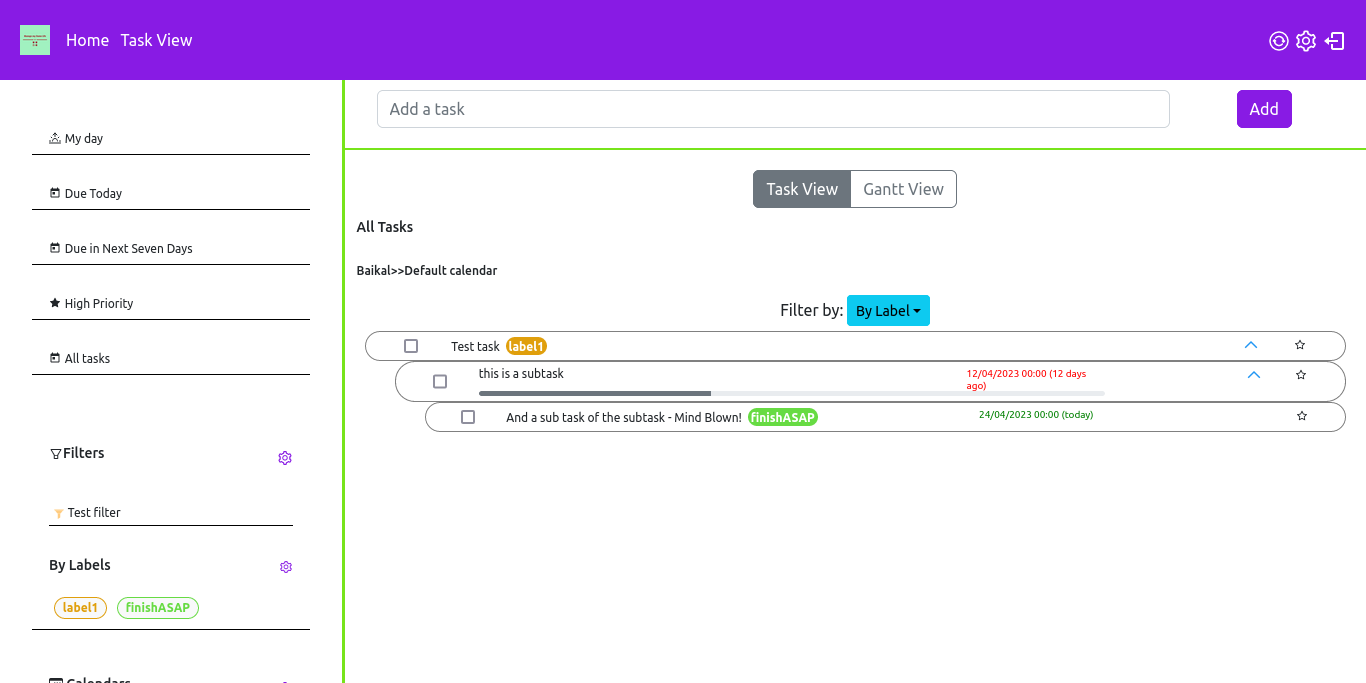
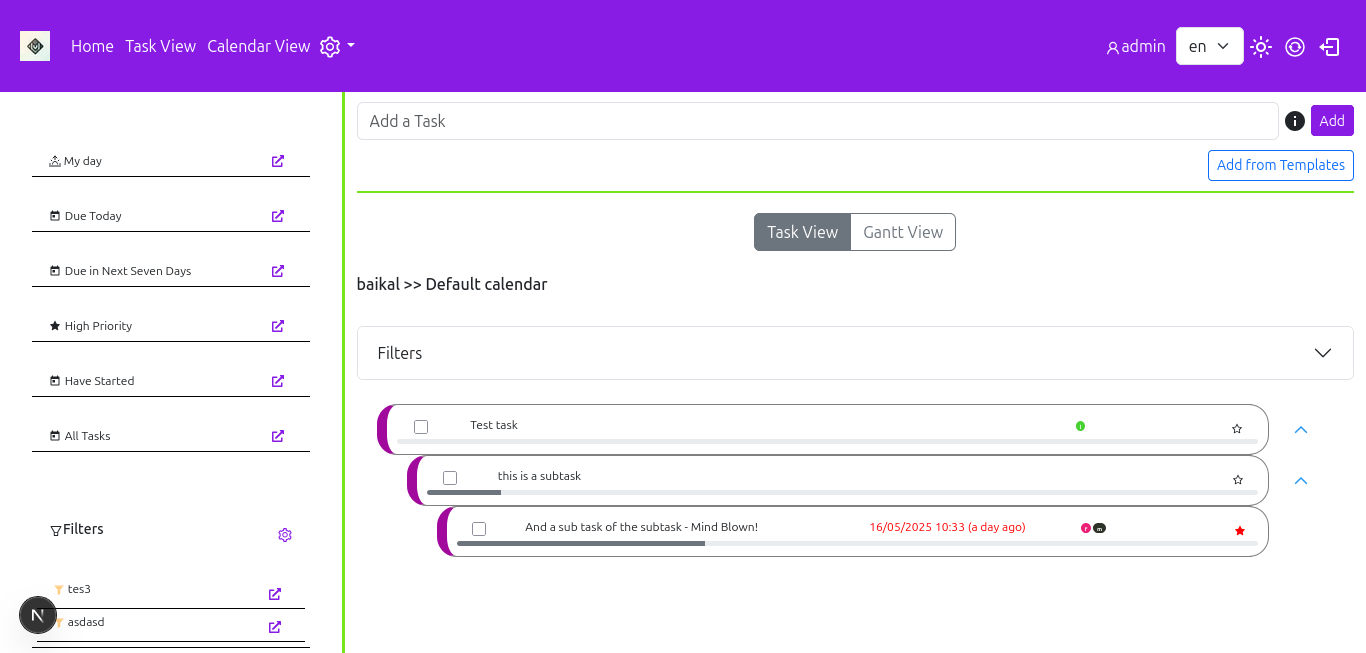
v0.6.0 migration  - Updated docs  - Minor bug fixes  - Ready for stable release, fingers crossed.

diff --git a/src/helpers/frontend/filters.js b/src/helpers/frontend/filters.js
@@ -1,7 +1,7 @@
 import moment from "moment"
 import { dueDatetoUnixStamp, ISODatetoHuman } from "./general"
 import { getAuthenticationHeadersforUser } from "./user"
-import { getAPIURL, isStringEmpty, logVar, varNotEmpty } from "../general"
+import { getAPIURL, getTodaysDayEnd_ISOString, isStringEmpty, logVar, varNotEmpty } from "../general"
 import { RRuleHelper } from "./classes/RRuleHelper"
 import { RecurrenceHelper } from "./classes/RecurrenceHelper"
 import { getErrorResponse } from "../errros"
@@ -360,10 +360,12 @@ export function applyEventFilter(event, filter)
                 dueDate= recurrenceObj.getNextDueDate()
             }
     
+            
             filterByDueResult = filterbyDue(filter.filter.due, dueDate)
-           
-           
+            
+            // console.log("filterbyDue 22", filter.filter.due, moment(dueDate).unix(), filterByDueResult)
         }
+
         if(!filterByDueResult && logic=="and"){
             return false
         }
@@ -522,7 +524,7 @@ function filterbyStart(filter_start, startDate ){
         const startUnix= moment(startDate).unix()
 
         if(("before" in filter_start) && filter_start.before){
-            if(startUnix<=filter_start.before)
+            if(startUnix<=moment(filter_start.before).unix())
             {
                 toReturn = true
             }
@@ -531,7 +533,7 @@ function filterbyStart(filter_start, startDate ){
         
 
         if("after" in filter_start && filter_start.after){
-            if(startUnix>=filter_start.after)
+            if(startUnix>=moment(filter_start.after).unix())
             {
                 toReturn = true
             }
@@ -552,6 +554,7 @@ function filterbyDue(filterdueArray, dueDate)
             const dueUnixStamp= moment(dueDate).unix()
             const dueStart = moment(filterdueArray[0]).unix()
             const dueEnd = moment(filterdueArray[1]).unix()
+            // console.log(moment(getTodaysDayEnd_ISOString()*1000).toISOString())
             if(dueUnixStamp>=dueStart && dueUnixStamp <= dueEnd)
             {
                 return true

diff --git a/src/helpers/viewHelpers/pages.ts b/src/helpers/viewHelpers/pages.ts
@@ -1,5 +1,5 @@
 import { MYDAY_LABEL } from '@/config/constants'
-import { getTodaysDateUnixTimeStamp } from '../general'
+import { getSevenDaysEnd_ISOString, getTimeNow_ISOString, getTodaysDayEnd_ISOString } from '../general'
 
 export const PAGE_VIEW_NAME_MY_DAY ="MY_DAY"
 export const PAGE_VIEW_NAME_DUE_TODAY="DUE_TODAY"
@@ -11,12 +11,12 @@ export const PAGE_VIEW_NAME_HAVE_STARTED="HAVE_STARTED"
 
 export const PAGE_VIEW_JSON = {
 
-    "MY_DAY": { logic: "or", filter: { due: [0, getTodaysDateUnixTimeStamp()], label: [MYDAY_LABEL] } },
-    "DUE_TODAY": { logic:"or", filter: { due: [0, getTodaysDateUnixTimeStamp()] } },
-    "DUE_NEXT_SEVEN_DAYS":{logic:"or",  filter: { due: [0, getTodaysDateUnixTimeStamp() + 604800] } },
+    "MY_DAY": { logic: "or", filter: { due: [0, getTodaysDayEnd_ISOString()], label: [MYDAY_LABEL] } },
+    "DUE_TODAY": { logic:"or", filter: { due: [0, getTodaysDayEnd_ISOString()] } },
+    "DUE_NEXT_SEVEN_DAYS":{logic:"or",  filter: { due: [0, getSevenDaysEnd_ISOString()] }},
     "HIGH_PRIORITY": { filter: { priority: 4 } },
     "ALL_TASKS": {},
-    "HAVE_STARTED":{logic:"or",  filter: { start: {before:getTodaysDateUnixTimeStamp()}}}
+    "HAVE_STARTED":{logic:"or",  filter: { start: {before:getTimeNow_ISOString()}}}
 
 }
 

diff --git a/src/helpers/general.js b/src/helpers/general.js
@@ -40,9 +40,26 @@ export function getRandomColourCode()
 
 export function getTodaysDateUnixTimeStamp()
 {
-    var dateNew = new Date()
-    var date = dateNew.getDate()+"/"+(dateNew.getMonth()+1)+"/"+dateNew.getFullYear()+" 23:59"
-    return dueDatetoUnixStamp(date)
+    // var dateNew = new Date()
+    // var date = dateNew.getDate()+"/"+(dateNew.getMonth()+1)+"/"+dateNew.getFullYear()+" 23:59"
+    // return dueDatetoUnixStamp(date)
+
+    return moment().unix()
+
+}
+export function getTodaysDayEnd_ISOString(){
+    const now = moment()
+    return now.endOf('day').toISOString()
+}
+
+export function getTimeNow_ISOString(){
+    const now = moment().toISOString()
+    return now
+}
+
+export function getSevenDaysEnd_ISOString(){
+    const now = moment().add(7, "days")
+    return now.endOf('day').toISOString()
 
 }
 export function isValidDateString(dateString){

diff --git a/src/components/tasks/views/SingleTask/LabelListForTask.tsx b/src/components/tasks/views/SingleTask/LabelListForTask.tsx
@@ -39,7 +39,7 @@ export const LabelListForTask = ({parsedTask, id}: {parsedTask: ParsedTask, id: 
                     
                     //toolTipData.push(<span key={`labels_${i}_${parsedTask.categories[i]}_${id}`} className="badge rounded-pill textDefault" style={{ fontSize:8, marginLeft: 1, marginRight: 1,  backgroundColor: labelColour, color: "white" }}>{parsedTask.categories[i].charAt(0)}</span>)
 
-                    const smallID = `${id}_small`
+                    const smallID = `${id}_${i}_small`
                     labelArray.push(getLabelPill(smallID, parsedTask.categories[i].charAt(0), smallID, labelColour, 6))
                     toolTipData.push(getLabelPill(`${i}_large`, parsedTask.categories[i], `${id}_large`, labelColour, 10 ))
 

diff --git a/src/components/valarm/VAlarmForm.tsx b/src/components/valarm/VAlarmForm.tsx
@@ -18,7 +18,7 @@ export const VAlarmForm = ({ input, onChange }: { input: vAlarm[], onChange: Fun
 
     // const [alarmValue, setAlarmValue] = useState("")
     const [alarms, setAlarms] = useState<vAlarmVTODOGEN[]>([])
-    const [description, setDescription] = useState("REMINDER!")
+    const [description, setDescription] = useState("Reminder!")
     const [alarmAction, setAlarmAction] = useState("DISPLAY")
     const [triggerValue, setTriggerValue] = useState(0)
     const [triggerDirection, setTriggerDirection] = useState("BEFORE")

diff --git a/src/components/common/calendars/caldavAccounts/AddCaldavAccount.tsx b/src/components/common/calendars/caldavAccounts/AddCaldavAccount.tsx
@@ -113,8 +113,8 @@ const AddCaldavAccount = ({ onAddAccountDismissed, onAccountAddSuccess }) => {
           console.log("body", body)
           await saveCaldavAccountToDexie(body.data, username);
           await insertCalendarsIntoDexie(body.data);
+          await fetchLatestEventsV2(true)
           setRequestPending(false);
-          fetchLatestEventsV2()
           onAccountAddSuccess();
         }else{
           console.error(body, "AddCaldavAccount:makeServerRequest");    

diff --git a/src/components/common/calendars/caldavAccounts/CaldavAccounts.tsx b/src/components/common/calendars/caldavAccounts/CaldavAccounts.tsx
@@ -92,7 +92,7 @@ export default function CaldavAccount({  }) {
       console.warn(response);
     }
     refreshCalendarListPage();
-    fetchLatestEventsV2();
+    fetchLatestEventsV2(true);
     setShowAddCalendarModal(false);
   };
 

diff --git a/src/config/constants.js b/src/config/constants.js
@@ -1,4 +1,4 @@
-export const VERSION_NUMBER = "0.6.0-dev-rev6" 
+export const VERSION_NUMBER = "0.6.0" 
 /*
 * SYSTEM_DEFAULT_LABEL_PREFIX: Default prefix applied to all system generated labels like
 * "My Day"

diff --git a/src/helpers/frontend/general.js b/src/helpers/frontend/general.js
@@ -122,7 +122,7 @@ export function ISODatetoHumanISO(date)
 
 export function dueDatetoUnixStamp(dueDate)
 {
-    return moment(dueDate, 'D/M/YYYY H:mm').unix();
+    return moment(dueDate).unix();
 
 }
 

diff --git a/docs/Updating.md b/docs/Updating.md
@@ -1,12 +1,11 @@
 # Updating
 
-## Updating to v0.3.0 from earlier versions
+## General Instructions
 
-> ⚠ **Instructions have changed since v0.3.0**
+Procedure to update MMDL will depend on how you've installed it. Depending on the version, some additional steps might need to be taken.
 
-> This guide is useful for installation of v0.3.0 or above. Guide for older versions is available [here](https://manage-my-damn-life-nextjs.readthedocs.io/en/v0.2.0/).
+Once you install the new version, by using the following instructions, visit ```example.com/install``` to make changes to the front end.
 
-Procedure to update MMDL will depend on how you've installed it.
 
 ### If MMDL has been Installed using Github
 
@@ -36,4 +35,35 @@ npm run start
 Since the variables in .env might have been changed, make the relevant changes to your file. More details can be found [here](install/Docker/index.md).
 
 ```docker-compose.yml``` has also changed in v0.3.0. You can find more details [here](install/Docker/index.md).
+
+
+### Frontend Troubleshooting
+
+MMDL using Dexie database in your browser for data storage. Sometimes, after updating your MMDL version, the browser database may not migrate successfully. To troubleshoot most of the frontend issues after an update:
+
+- Visit the settings page ```accounts/settings```.
+- Look for a setting named "Nuke Local Data on Logout?" and flip it on.
+- Logout and Log back in.
+- Turn this setting off to speed up login time.
+
+## Updating to v0.6.0
+
+### Breaking changes
+
+There are some breaking changing in this version, both at the backend and the front end.
+
+Additionally, some new environment variables must be added to the .env and they must be set before you run this version. They are:
+
+#### DB_DIALECT 
+Depending on your database backend, DB_DIALECT can be one of the following:'mysql' | 'postgres' | 'sqlite'.
+
+#### DB_PORT
+DB_PORT must specify the port of your database. For Mysql it is usually 3306 and for PostgreSQL it is usually 5433.
+
+## Updating to v0.3.0 from earlier versions
+
+> ⚠ **Instructions have changed since v0.3.0**
+
+> This guide is useful for installation of v0.3.0 or above. Guide for older versions is available [here](https://manage-my-damn-life-nextjs.readthedocs.io/en/v0.2.0/).
+
 

diff --git a/docs/install/Configuration/WithoutDocker.md b/docs/install/Configuration/WithoutDocker.md
@@ -31,7 +31,7 @@ These are the variables that you need to change for MMDL to function properly. I
 
 > Required to Change From Default: **Yes**
 
-Host for your MySQL database.
+Host for your backend database.
 ```
 Example:
 
@@ -43,7 +43,7 @@ DB_HOST=localhost
 
 > Required to Change From Default: **Yes**
 
-Host for your MySQL database.
+Username for your database user.
 ```
 Example:
 
@@ -54,37 +54,49 @@ DB_USER=myuser
 
 > Required to Change From Default: **Yes**
 
-Password for your MySQL user.
+Password for your database user.
 ```
 Example:
 
 DB_PASS=mypassword
 ```
 
-
-### DB_PORT
-
-> Required to Change From Default: **Yes**
-
-Port for your MySQL server.
-```
-Example:
-
-DB_PORT=3306
-```
-
 ### DB_NAME
 
-
 > Required to Change From Default: **Yes**
 
-Name of your MySQL database.
+Name of your database.
 ```
 Example:
 
 DB_NAME=dbname
 ```
 
+### DB_PORT
+
+> Required to Change From Default: **Yes**
+
+Port of your backend database.
+```
+Example:
+
+DB_PORT=3306
+```
+
+
+### DB_DIALECT
+
+> Required to Change From Default: **Yes**
+
+Type of your backend database.
+
+Depending on your database backend, DB_DIALECT can be one of the following:'mysql' | 'postgres' | 'sqlite'.
+
+```
+Example:
+
+DB_DIALECT=mysql
+```
 
 ### AES_PASSWORD
 

diff --git a/docs/install/Configuration/DetailedConfiguration.md b/docs/install/Configuration/DetailedConfiguration.md
@@ -23,7 +23,7 @@ Enable or disable debug mode. Doesn't do much as of now.
 
 > Required to Change From Default: **Yes**
 
-Host for your MySQL database.
+Host for your backend database.
 ```
 Example:
 
@@ -35,7 +35,7 @@ DB_HOST=localhost
 
 > Required to Change From Default: **Yes**
 
-Host for your MySQL database.
+Username for your database user.
 ```
 Example:
 
@@ -46,7 +46,7 @@ DB_USER=myuser
 
 > Required to Change From Default: **Yes**
 
-Password for your MySQL user.
+Password for your database user.
 ```
 Example:
 
@@ -57,11 +57,37 @@ DB_PASS=mypassword
 
 > Required to Change From Default: **Yes**
 
-Name of your MySQL database.
+Name of your database.
 ```
 Example:
 
 DB_NAME=dbname
+```
+
+### DB_PORT
+
+> Required to Change From Default: **Yes**
+
+Port of your backend database.
+```
+Example:
+
+DB_PORT=3306
+```
+
+
+### DB_DIALECT
+
+> Required to Change From Default: **Yes**
+
+Type of your backend database.
+
+Depending on your database backend, DB_DIALECT can be one of the following:'mysql' | 'postgres' | 'sqlite'.
+
+```
+Example:
+
+DB_DIALECT=mysql
 ```
 
 ### AES_PASSWORD
